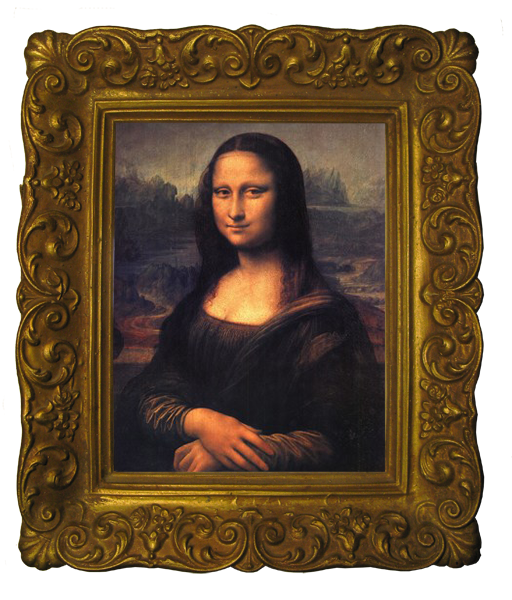
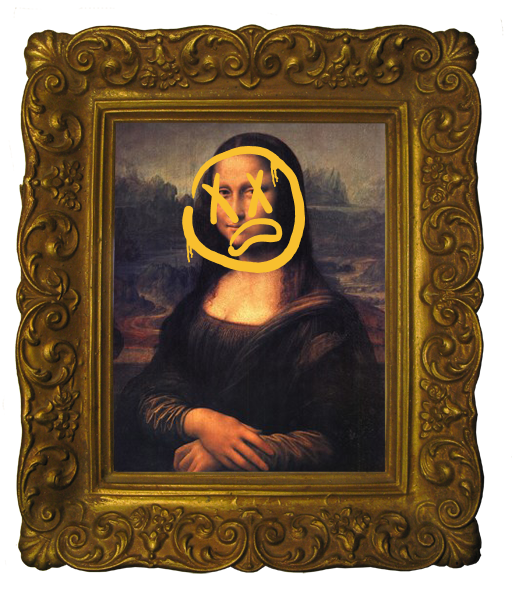
Add 'been there' section

Changed region(s): [[0.3438, 0.24, 0.5938, 0.48]]

diff --git a/css/main.css b/css/main.css
@@ -96,6 +96,21 @@ p {
   background-image:
     linear-gradient(to right, #e6e6e6 2px, transparent 1px),
     linear-gradient(to bottom, #e6e6e6 2px, transparent 1px);
+  overflow: hidden;
+}
+
+.main > .not-facebook-box-outer > .not-facebook-box-inner > div#marker-container {
+  width: 100%;
+  height: 100%;
+  position: absolute;
+  right: -98%;
+  z-index: 999;
+  top: -30px;
+}
+
+.main > .not-facebook-box-outer > .not-facebook-box-inner > div#marker-container > img {
+  display: block;
+  width: 166px;
 }
 
 .main > .not-facebook-box-outer > .not-facebook-box-inner > .to-the-audience {
@@ -165,7 +180,7 @@ p {
   padding: 50px 0 0 0;
 }
 
-.main > .not-facebook-box-outer > .white-box > .to-the-audience div:nth-of-type(1) > p {
+.main > .not-facebook-box-outer > .white-box .to-the-audience > div:first-child {
   font-family: 'IBM Plex Mono', monospace;
   font-weight: 700;
   text-transform: uppercase;
@@ -173,13 +188,37 @@ p {
   text-align: right;
 }
 
-.main > .not-facebook-box-outer > .white-box > .to-the-audience div:nth-of-type(2) {
+.main > .not-facebook-box-outer > .white-box .to-the-audience > div:nth-of-type(2) {
   background-color: #ffc700;
   padding-bottom: 40px;
 }
 
-.main > .not-facebook-box-outer > .white-box > .to-the-audience div:nth-of-type(2) > p {
+.main > .not-facebook-box-outer > .white-box .to-the-audience div:nth-of-type(2) > p {
   font-family: 'IBM Plex Mono', monospace;
   font-size: 32px;
   line-height: 150%;
+}
+
+.main > .not-facebook-box-outer > .white-box .to-the-audience > div:nth-of-type(3) {
+  position: relative;
+  overflow: hidden;
+}
+
+.main > .not-facebook-box-outer > .white-box .to-the-audience > div:nth-of-type(3) div#been-here {
+  position: absolute;
+  left: 35px;
+  top: 12px;
+}
+
+.main > .not-facebook-box-outer > .white-box .to-the-audience > div:nth-of-type(3) div#been-here p:nth-of-type(1) {
+  font-family: 'IBM Plex Mono', monospace;
+  font-size: 18px;
+  line-height: 27px;
+}
+
+.main > .not-facebook-box-outer > .white-box .to-the-audience > div:nth-of-type(3) div#been-here p:nth-of-type(2) {
+  font-family: 'Changa One', cursive;
+  font-size: 33px;
+  line-height: 39px;
+  text-transform: uppercase;
 }

diff --git a/index.html b/index.html
@@ -31,7 +31,11 @@
   <main class="main">
     <div class="not-facebook-box-outer">
       <p id="this-is-rantages">this is rantages</p>
-      <div class="not-facebook-box-inner"></div>
+      <div class="not-facebook-box-inner">
+        <div id="marker-container">
+          <img src="./img/marker.png"  alt=""/>
+        </div>
+      </div>
       <div class="white-box">
         <div class="navbar">
           <div class="window-controls">
@@ -48,23 +52,21 @@
         </div>
 
         <div class="to-the-audience">
-          <div>
+          <div id="glad-you-are-here">
             <p>glad you are here</p>
           </div>
           <div>
             <p>we are almost here too! coming back real soon!</p>
           </div>
           <div>
-            <p>Been here</p>
-            <p><span>10+</span><span>years</span></p>
+            <div id="been-here">
+              <p>Been here</p>
+              <p><span>10+</span><span>years</span></p>
+            </div>
           </div>
         </div>
       </div>
       <img src="./img/monalisa.png" alt="mona-lisa painting">
-      <img src="./img/airbrush1.png" alt="mona-lisa painting">
-      <img src="./img/airbrush2.png" alt="mona-lisa painting">
-      <img src="./img/airbrush3.png" alt="mona-lisa painting">
-      <img src="./img/airbrush4.png" alt="mona-lisa painting">
     </div>
   </main>
 </body>
